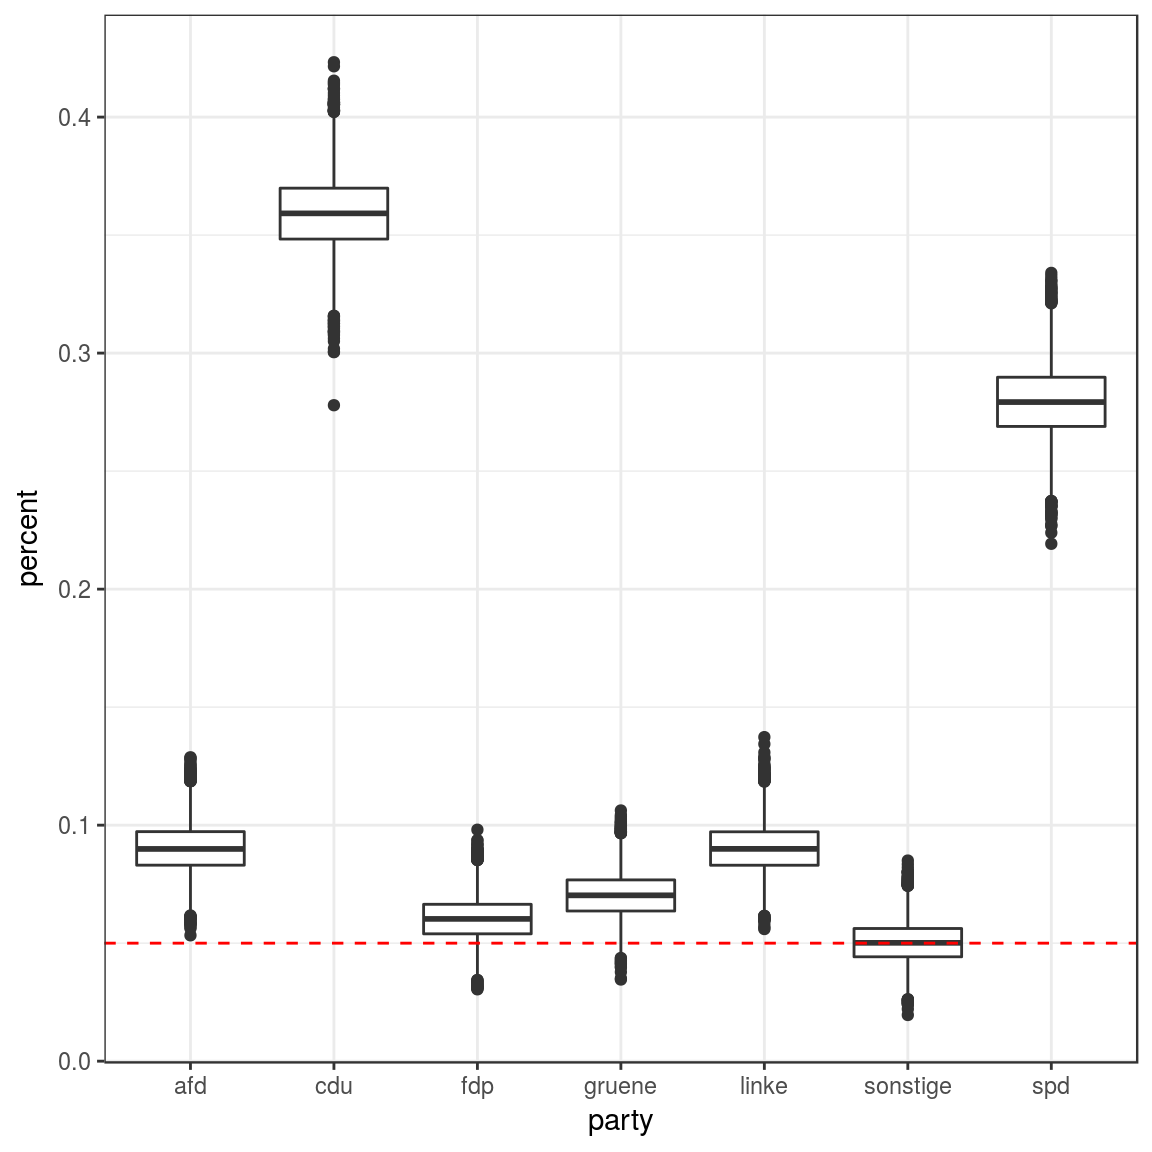
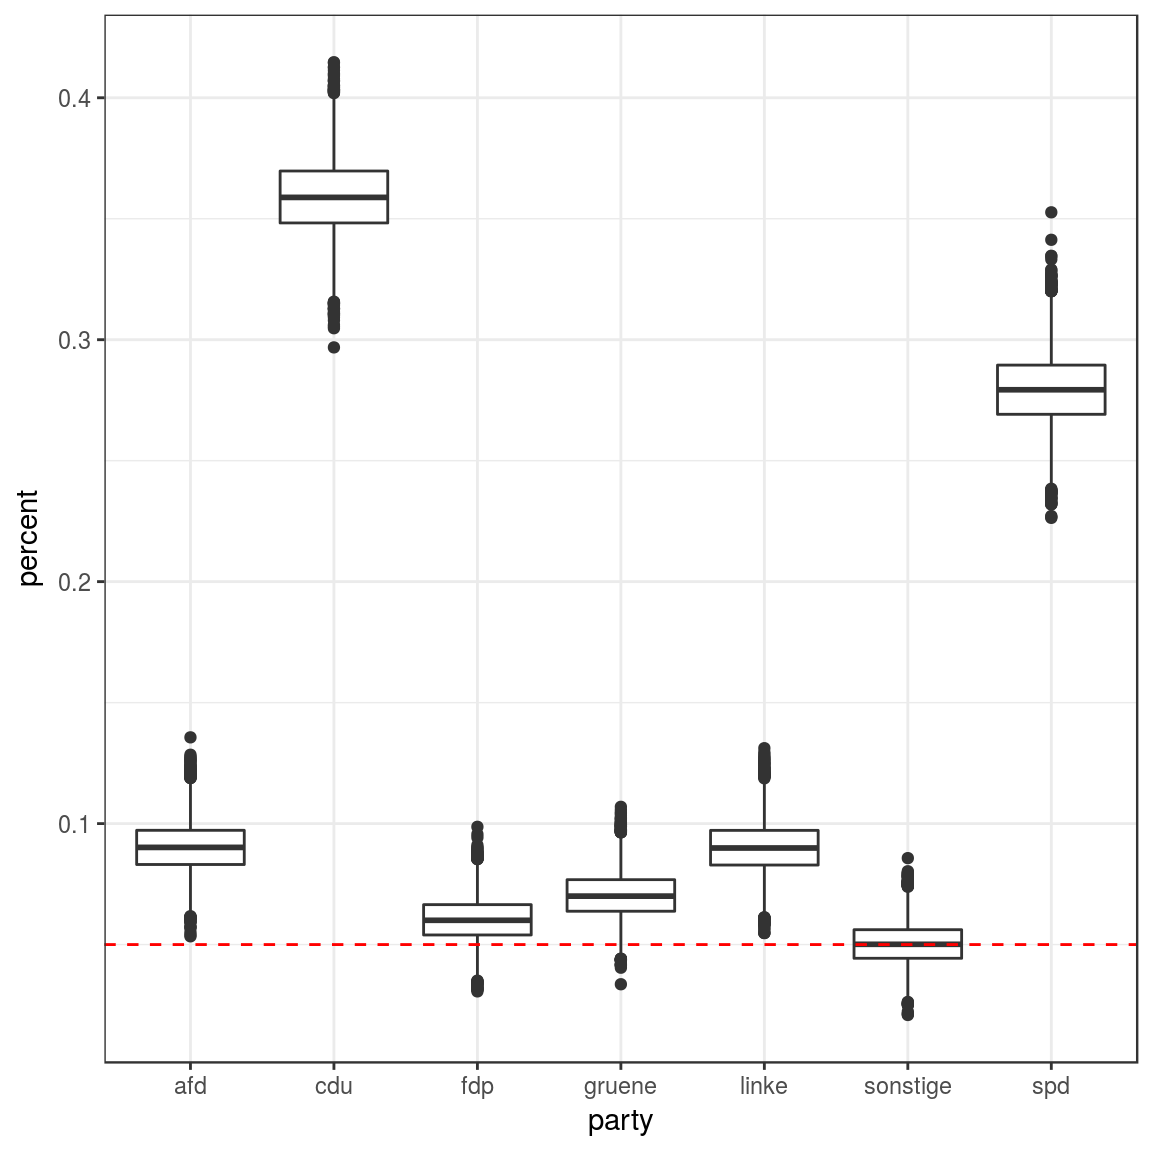
More HP updates + blog updates (moved KOALA.Rmd to .Rbuildignore)

diff --git a/docs/articles/workflow.html b/docs/articles/workflow.html
@@ -167,16 +167,16 @@ elong %&gt;%<span class="st"> </span><span class="kw"><a href="http://dplyr.tidy
 <pre><code>## # A tibble: 10 x 7
 ##          cdu       spd     gruene        fdp      linke        afd
 ##        &lt;dbl&gt;     &lt;dbl&gt;      &lt;dbl&gt;      &lt;dbl&gt;      &lt;dbl&gt;      &lt;dbl&gt;
-##  1 0.3739160 0.2375146 0.07683180 0.08623479 0.08138662 0.10059715
-##  2 0.3782042 0.2361738 0.07399882 0.08501395 0.08064230 0.10115280
-##  3 0.3736176 0.2396494 0.07232845 0.07775604 0.09670514 0.10760127
-##  4 0.3785119 0.2625621 0.06519184 0.07416409 0.08630471 0.08822401
-##  5 0.3841443 0.2376035 0.06779518 0.07533358 0.10095981 0.09404047
-##  6 0.3940751 0.2323532 0.08195661 0.07928853 0.09185664 0.08350698
-##  7 0.3859405 0.2427227 0.06913663 0.07985209 0.08955058 0.09180776
-##  8 0.3600206 0.2656223 0.08862322 0.06951405 0.08839804 0.08503688
-##  9 0.3732298 0.2536746 0.07639448 0.07720963 0.09885306 0.08770672
-## 10 0.3697136 0.2423325 0.07695632 0.07053783 0.10152135 0.09166906
+##  1 0.3787666 0.2365393 0.08258919 0.07900997 0.10556252 0.08103657
+##  2 0.3757182 0.2231958 0.08532629 0.08104520 0.09151806 0.09369408
+##  3 0.3707922 0.2425387 0.08675183 0.08024644 0.08989900 0.07982999
+##  4 0.3856049 0.2457885 0.08354163 0.07143308 0.09178993 0.08156730
+##  5 0.3847593 0.2497988 0.08388365 0.07368077 0.08243569 0.09282622
+##  6 0.3749367 0.2367829 0.07363543 0.08578226 0.09123394 0.09729943
+##  7 0.3840623 0.2396258 0.07905436 0.07837630 0.08074705 0.09174465
+##  8 0.3828159 0.2356277 0.07517575 0.08439253 0.08771695 0.09369628
+##  9 0.3764082 0.2426490 0.06995775 0.08107449 0.09684060 0.09553165
+## 10 0.3703363 0.2154674 0.08191316 0.08825411 0.10543665 0.09226775
 ## # ... with 1 more variables: sonstige &lt;dbl&gt;</code></pre>
 </div>
 <div id="calculate-seat-distribution" class="section level2">
@@ -200,16 +200,16 @@ elong %&gt;%<span class="st"> </span><span class="kw"><a href="http://dplyr.tidy
 <pre><code>## # A tibble: 60 x 3
 ##      sim  party seats
 ##    &lt;int&gt;  &lt;chr&gt; &lt;int&gt;
-##  1     1    cdu   234
-##  2     1    spd   148
-##  3     1 gruene    48
-##  4     1    fdp    54
-##  5     1  linke    51
-##  6     1    afd    63
-##  7     2    cdu   237
-##  8     2    spd   148
-##  9     2 gruene    46
-## 10     2    fdp    53
+##  1     1    cdu   235
+##  2     1    spd   147
+##  3     1 gruene    51
+##  4     1    fdp    49
+##  5     1  linke    66
+##  6     1    afd    50
+##  7     2    cdu   236
+##  8     2    spd   140
+##  9     2 gruene    54
+## 10     2    fdp    51
 ## # ... with 50 more rows</code></pre>
 <p>In the above example, given the latest survey, CDU/CSU would have 225 seats in the first simulation, 223 seats in the second simulation, etc.</p>
 </div>

diff --git a/docs/articles/KOALA.html b/docs/articles/KOALA.html
@@ -88,7 +88,7 @@
 <blockquote>
 <p>“Welche Partei würden sie wählen, wenn Sonntag Bundestagswahl wäre?”</p>
 </blockquote>
-<p>Anhand der in diesen Umfragen erzielten Anteile pro Partei, versuchen die Medien dann meist Fragen wie</p>
+<p>Anhand dieser Umfragen versuchen die Medien dann meist Fragen wie</p>
 <blockquote>
 <p>Welche Parteien bilden die Regierungskoalition?</p>
 </blockquote>
@@ -229,6 +229,9 @@ Sonstige
 <a href="#umverteilung" class="anchor"></a>1. Umverteilung</h3>
 <p>Bei der Bundestagswahl 2013 war der Anteil umverteilter Stimmen ungewöhnlich hoch. Nach obiger Umfrage würden die Stimmen der Piraten, AfD und Sonstigen umverteilt, also bereits 10%. Zusätzlich war die FDP knapp an der Grenze, d.h. insgesamt hätten bis zu 15% der Stimmen umverteilt werden können. Die Sitzverteilung für dieses konkrete Beispiel sähe also folgendermaßen aus:</p>
 <?xml version="1.0" encoding="UTF-8"?><table class="table" style="width: auto !important; margin-left: auto; margin-right: auto;">
+<caption>
+Anteile und Umverteilung und Zuordnung von Sitzen nach Verfahren von Sainte-Lague-Scheppers
+</caption>
 <thead><tr>
 <th style="text-align:left;">
 Partei
@@ -337,7 +340,7 @@ Wahrscheinlichkeit
 Union
 </td>
 <td style="text-align:right;">
-0.43 %
+0.27 %
 </td>
 </tr>
 <tr>
@@ -345,7 +348,7 @@ Union
 Union - FDP
 </td>
 <td style="text-align:right;">
-27.48 %
+27.23 %
 </td>
 </tr>
 <tr>
@@ -353,7 +356,7 @@ Union - FDP
 Union - Grüne
 </td>
 <td style="text-align:right;">
-99.49 %
+99.7 %
 </td>
 </tr>
 <tr>
@@ -361,7 +364,7 @@ Union - Grüne
 Union - FDP - Grüne
 </td>
 <td style="text-align:right;">
-0.08 %
+0.03 %
 </td>
 </tr>
 <tr>
@@ -385,7 +388,7 @@ SPD - Die Linke
 SPD - Die Linke - Grüne
 </td>
 <td style="text-align:right;">
-66.97 %
+67.53 %
 </td>
 </tr>
 </tbody>

diff --git a/docs/index.html b/docs/index.html
@@ -13,8 +13,6 @@
 <script src="https://oss.maxcdn.com/html5shiv/3.7.3/html5shiv.min.js"></script>
 <script src="https://oss.maxcdn.com/respond/1.4.2/respond.min.js"></script>
 <![endif]-->
-<link rel='shortcut icon' type='image/x-icon' href='favicon.ico'>
-
 </head>
 <body>
     <div class="container template-vignette">
@@ -167,12 +165,12 @@ survey %&gt;%<span class="st"> </span><span class="kw"><a href="http://www.rdocu
 <pre><code>## # A tibble: 6 x 4
 ##    institute      datum        coalition probability
 ##        &lt;chr&gt;     &lt;date&gt;            &lt;chr&gt;       &lt;dbl&gt;
-## 1 allensbach 2017-07-18              cdu         0.0
-## 2 allensbach 2017-07-18          cdu_fdp        53.3
-## 3 allensbach 2017-07-18   cdu_fdp_gruene        46.7
-## 4 allensbach 2017-07-18              spd         0.0
-## 5 allensbach 2017-07-18        linke_spd         0.0
-## 6 allensbach 2017-07-18 gruene_linke_spd         0.0</code></pre>
+## 1 allensbach 2017-07-18              cdu        0.00
+## 2 allensbach 2017-07-18          cdu_fdp       54.45
+## 3 allensbach 2017-07-18   cdu_fdp_gruene       45.55
+## 4 allensbach 2017-07-18              spd        0.00
+## 5 allensbach 2017-07-18        linke_spd        0.00
+## 6 allensbach 2017-07-18 gruene_linke_spd        0.00</code></pre>
 </div>
 </div>
 </div>

diff --git a/docs/articles/diagnostic.html b/docs/articles/diagnostic.html
@@ -123,10 +123,10 @@ draws_long &lt;-<span class="st"> </span><span class="kw"><a href="http://www.rd
 ##      &lt;chr&gt;     &lt;dbl&gt;
 ## 1      afd    1.0000
 ## 2      cdu    1.0000
-## 3      fdp    0.8688
-## 4   gruene    0.9873
+## 3      fdp    0.8683
+## 4   gruene    0.9847
 ## 5    linke    1.0000
-## 6 sonstige    0.5065
+## 6 sonstige    0.5045
 ## 7      spd    1.0000</code></pre>
 </div>
   </div>

diff --git a/docs/articles/index.html b/docs/articles/index.html
@@ -33,7 +33,6 @@
 <script src="https://oss.maxcdn.com/respond/1.4.2/respond.min.js"></script>
 <![endif]-->
 
-<link rel='shortcut icon' type='image/x-icon' href='../favicon.ico'>
 
   </head>
 
@@ -97,7 +96,7 @@
       </header>
 
       <div class="page-header">
-  <h1>Articles <small>version&nbsp;0.4.1.900</small></h1>
+  <h1>Articles <small>version&nbsp;0.4.1.901</small></h1>
 </div>
 
 <div class="row">

diff --git a/docs/reference/index.html b/docs/reference/index.html
@@ -33,7 +33,7 @@
 <script src="https://oss.maxcdn.com/respond/1.4.2/respond.min.js"></script>
 <![endif]-->
 
-  <link rel='shortcut icon' type='image/x-icon' href='../favicon.ico'>
+
   </head>
 
   <body>
@@ -100,7 +100,7 @@
     <div class="page-header">
       <h1>
         Reference
-        <small>version&nbsp;0.4.1.900</small>
+        <small>version&nbsp;0.4.1.901</small>
       </h1>
     </div>
 

diff --git a/README.md b/README.md
@@ -103,8 +103,8 @@ survey %>% get_probabilities(nsim=1e4) %>% unnest()
     ##    institute      datum        coalition probability
     ##        <chr>     <date>            <chr>       <dbl>
     ## 1 allensbach 2017-07-18              cdu        0.00
-    ## 2 allensbach 2017-07-18          cdu_fdp       54.82
-    ## 3 allensbach 2017-07-18   cdu_fdp_gruene       45.18
+    ## 2 allensbach 2017-07-18          cdu_fdp       53.58
+    ## 3 allensbach 2017-07-18   cdu_fdp_gruene       46.42
     ## 4 allensbach 2017-07-18              spd        0.00
     ## 5 allensbach 2017-07-18        linke_spd        0.00
     ## 6 allensbach 2017-07-18 gruene_linke_spd        0.00
